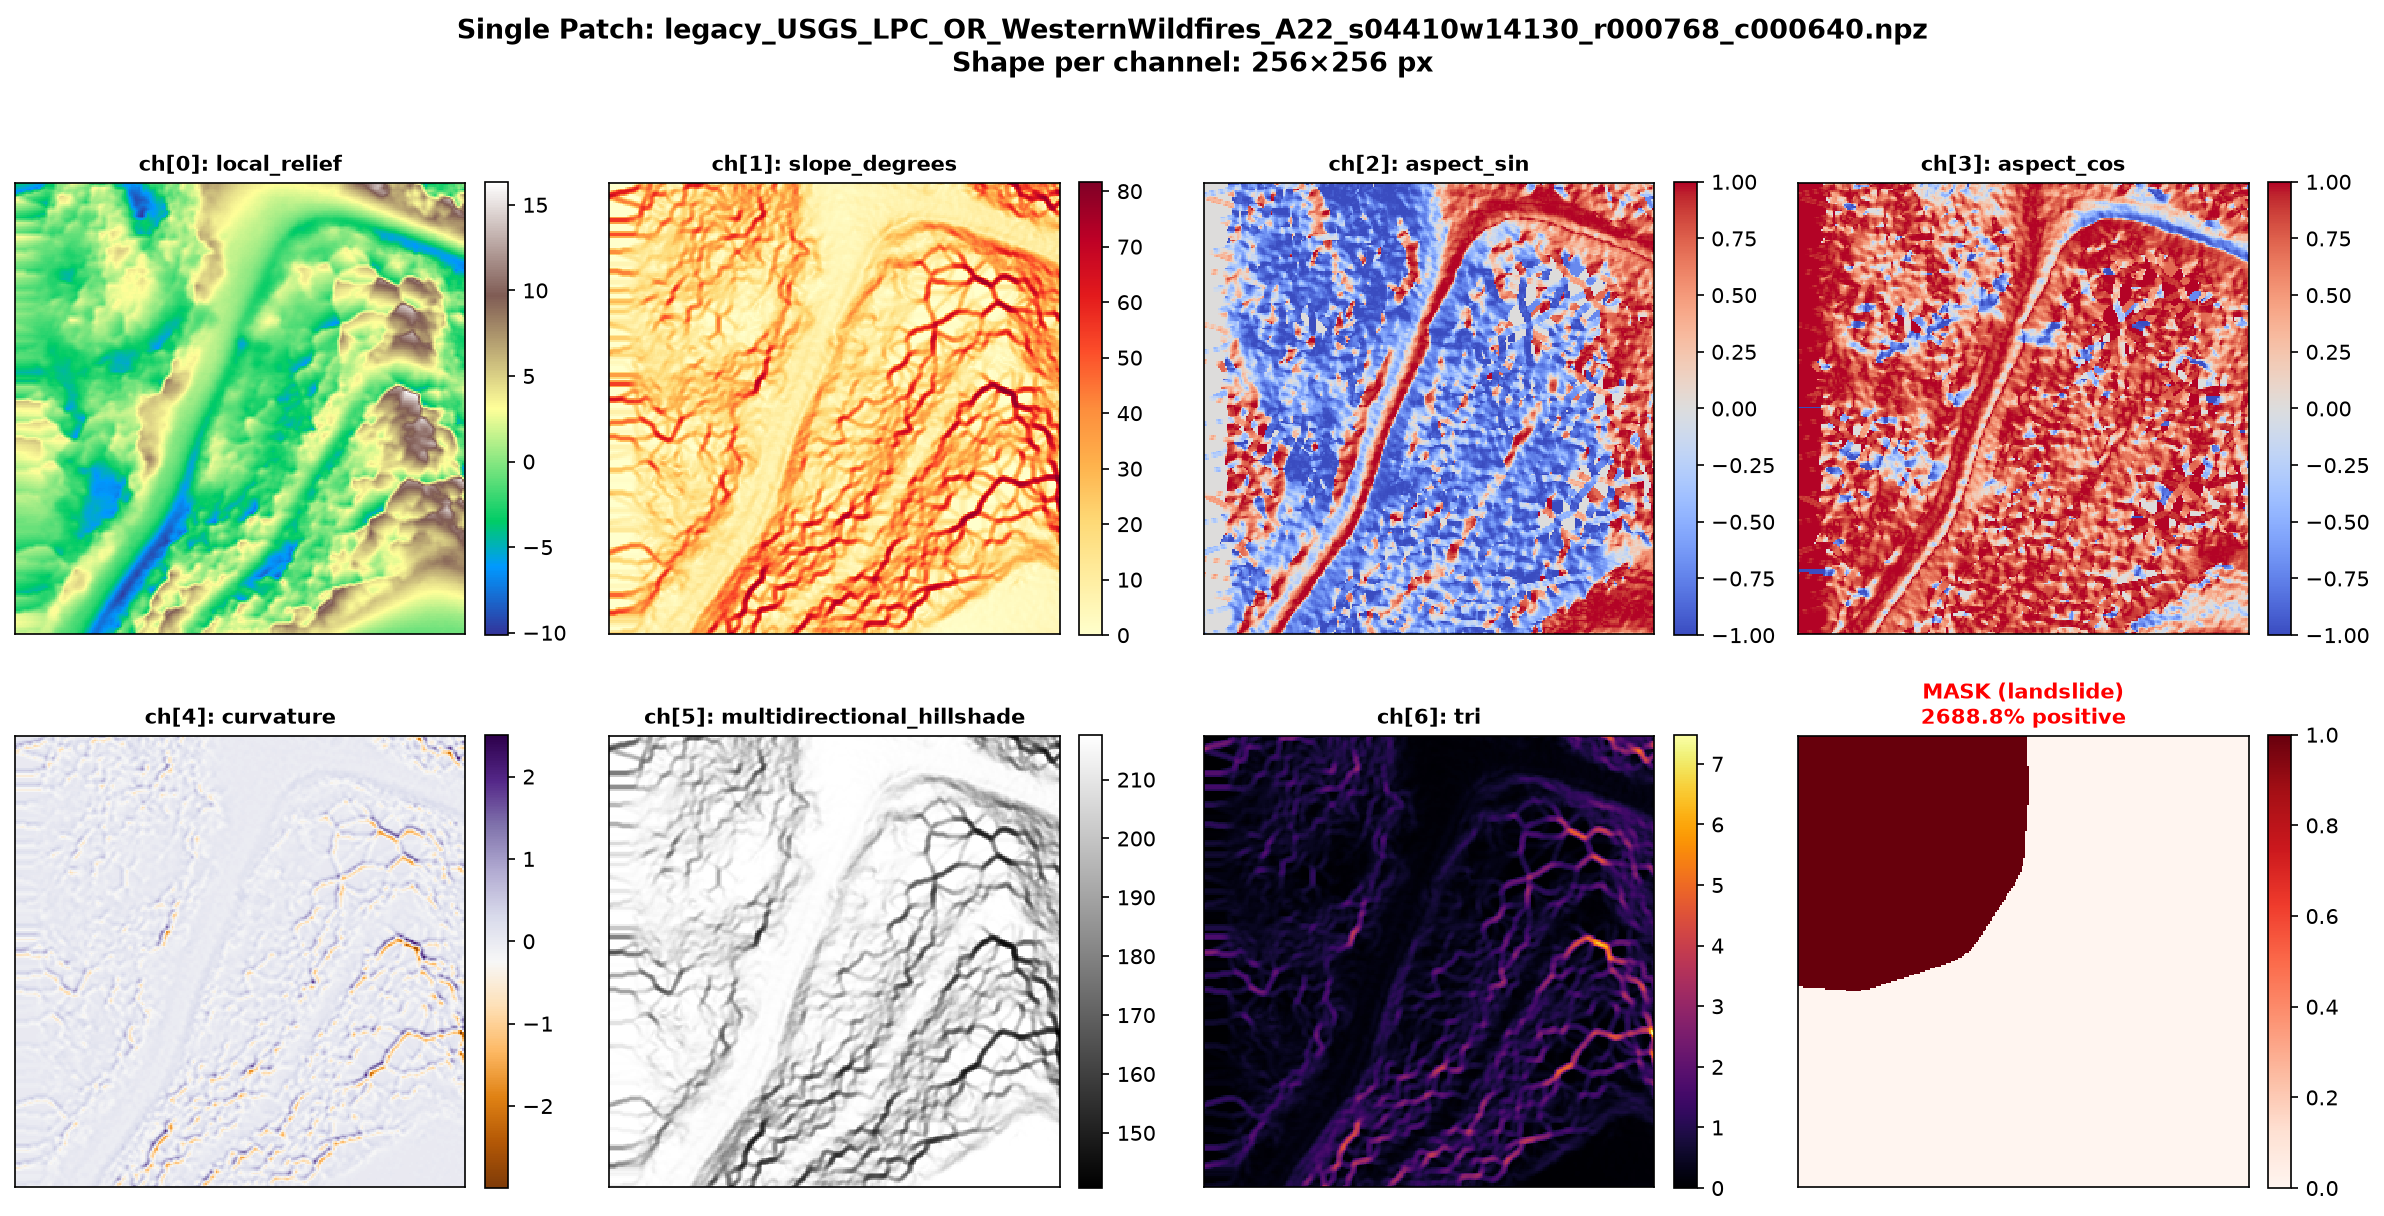
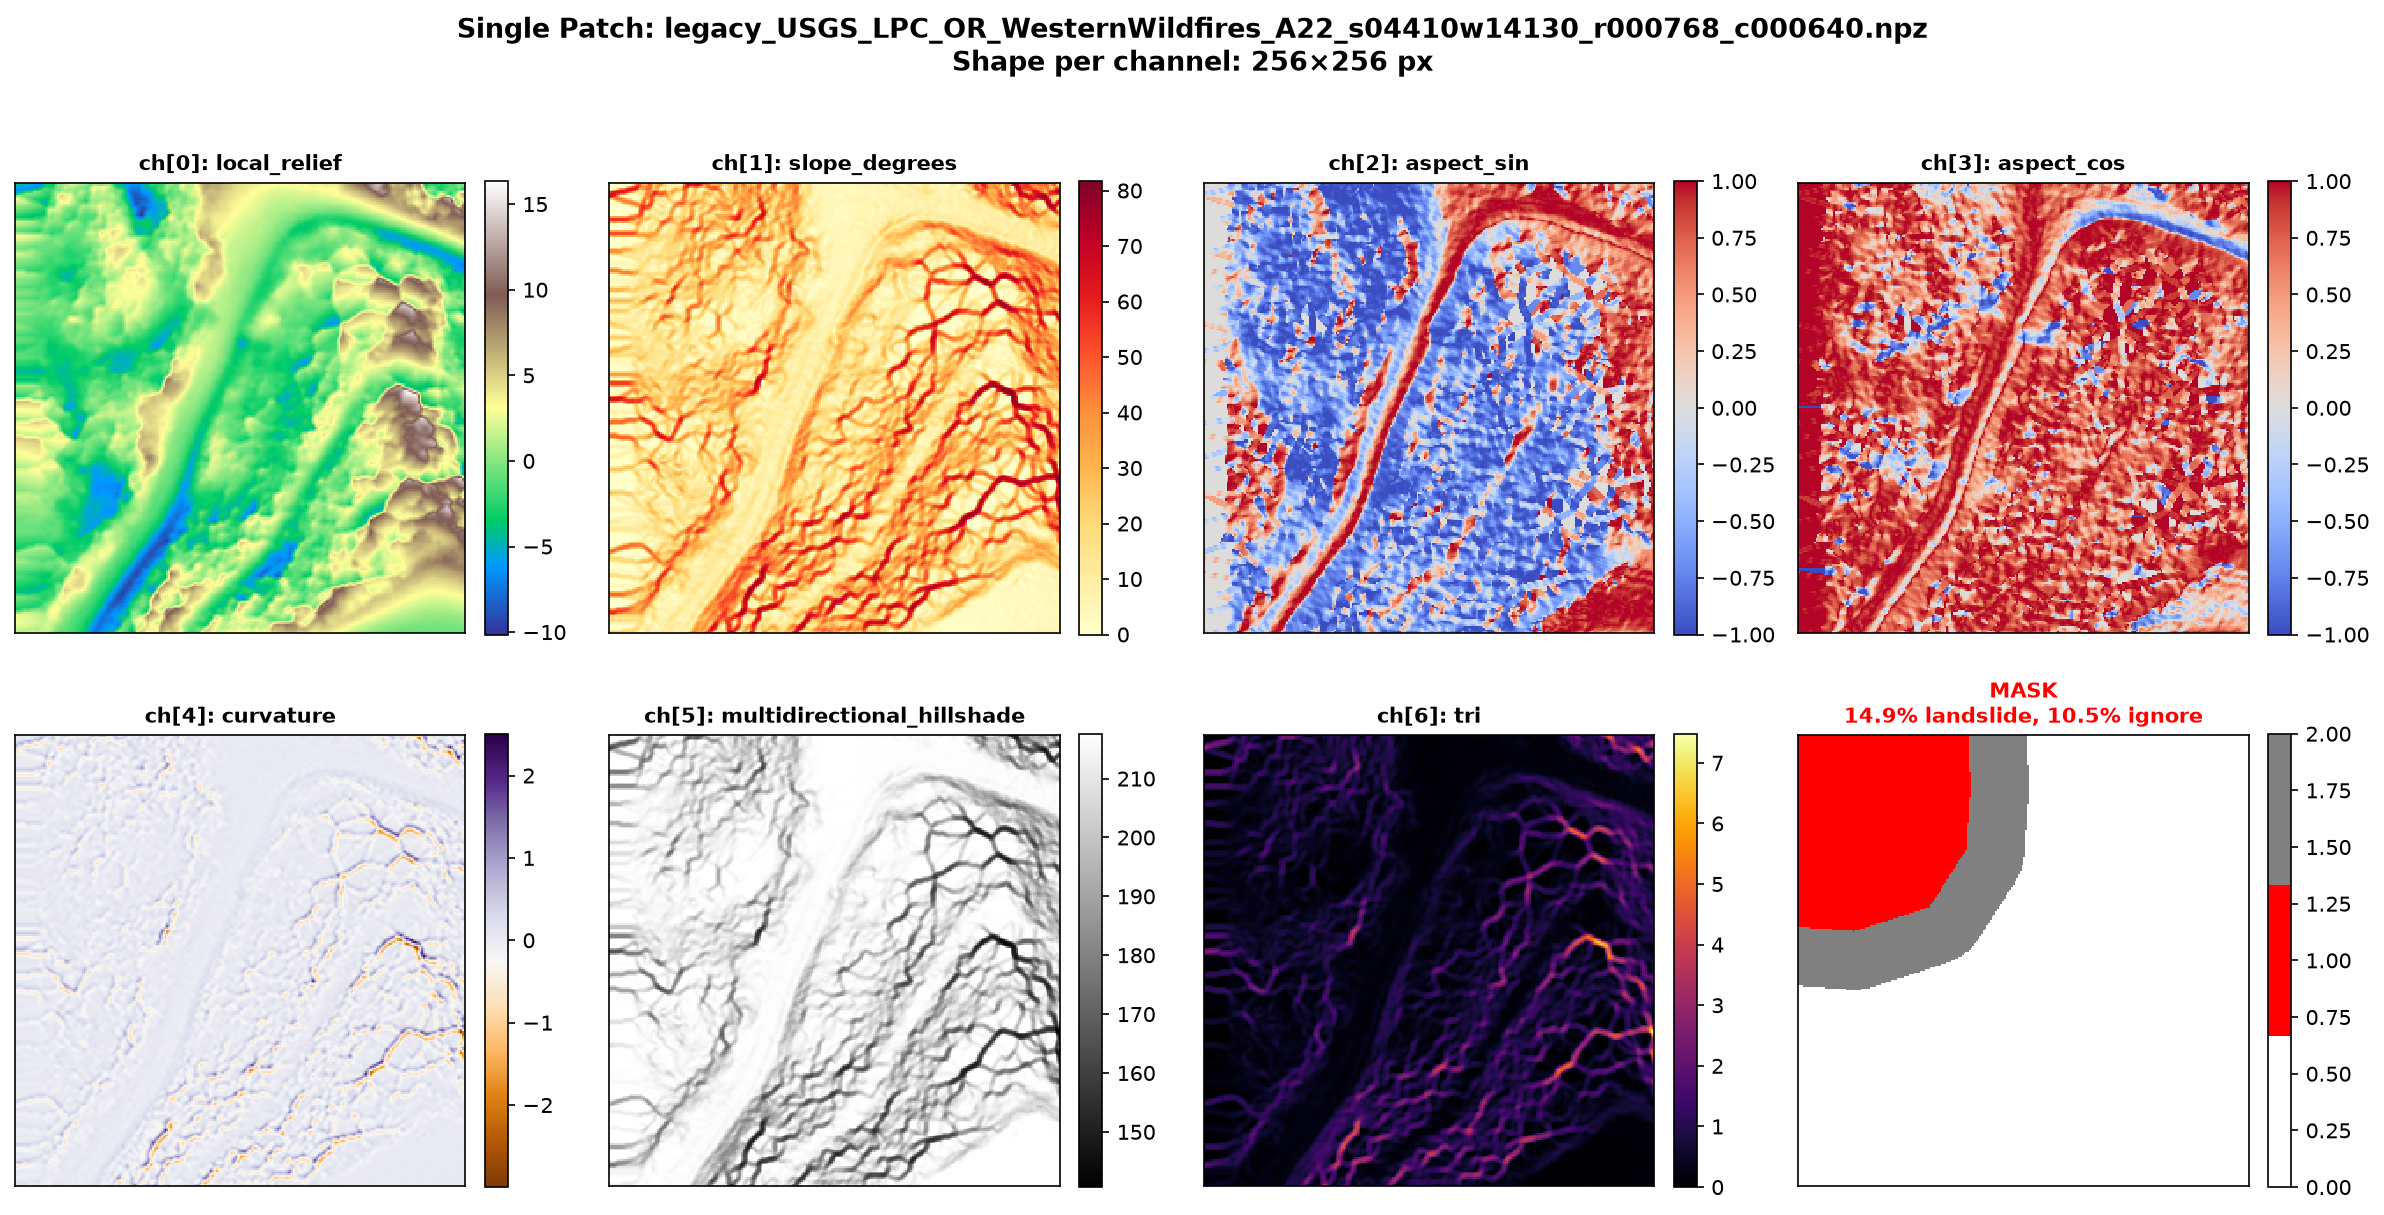
patch fix

diff --git a/oregon/visualize_patch_tillamook.py b/oregon/visualize_patch_tillamook.py
@@ -30,10 +30,13 @@ for row in rows:
         continue
     with np.load(p) as data:
         mask = data["mask"]
-    landslide_frac = mask.sum() / mask.size
+    landslide_frac = float(np.mean(mask == 1))
     if landslide_frac > 0.01:  # at least 1% landslide coverage
         positive_patch_path = p
-        print(f"Found positive patch: {p.name} ({landslide_frac*100:.1f}% landslide)")
+        print(
+            f"Found positive patch: {p.name} "
+            f"({landslide_frac:.1%} landslide)"
+        )
         break
 
 # Fallback to first available patch
@@ -54,10 +57,22 @@ with np.load(positive_patch_path) as data:
     features = data["features"]  # (C, H, W)
     mask = data["mask"]           # (H, W)
 
+positive_pixels = int(np.sum(mask == 1))
+ignore_pixels = int(np.sum(mask == 255))
+positive_fraction = float(np.mean(mask == 1))
+ignore_fraction = float(np.mean(mask == 255))
+
 print(f"\nPatch: {positive_patch_path.name}")
 print(f"  features shape: {features.shape}  (channels, height, width)")
 print(f"  mask shape:     {mask.shape}")
-print(f"  landslide pixels: {int(mask.sum())} / {mask.size} ({mask.sum()/mask.size*100:.2f}%)")
+print(
+    f"  landslide pixels: {positive_pixels} / {mask.size} "
+    f"({positive_fraction:.2%})"
+)
+print(
+    f"  ignore pixels:    {ignore_pixels} / {mask.size} "
+    f"({ignore_fraction:.2%})"
+)
 print()
 
 for i, name in enumerate(channels):
@@ -98,9 +113,35 @@ for i, name in enumerate(channels):
 
 # Mask
 ax = axes[n_channels]
-im = ax.imshow(mask, cmap="Reds", interpolation="nearest", vmin=0, vmax=1)
-landslide_pct = mask.sum() / mask.size * 100
-ax.set_title(f"MASK (landslide)\n{landslide_pct:.1f}% positive", fontsize=10, fontweight="bold", color="red")
+
+display_mask = np.zeros(mask.shape, dtype=np.uint8)
+display_mask[mask == 1] = 1
+display_mask[mask == 255] = 2
+
+im = ax.imshow(
+    display_mask,
+    cmap=plt.matplotlib.colors.ListedColormap([
+        "white",
+        "red",
+        "gray",
+    ]),
+    interpolation="nearest",
+    vmin=0,
+    vmax=2,
+)
+
+positive_fraction = float(np.mean(mask == 1))
+ignore_fraction = float(np.mean(mask == 255))
+
+ax.set_title(
+    f"MASK\n"
+    f"{positive_fraction:.1%} landslide, "
+    f"{ignore_fraction:.1%} ignore",
+    fontsize=10,
+    fontweight="bold",
+    color="red",
+)
+
 ax.set_xticks([])
 ax.set_yticks([])
 plt.colorbar(im, ax=ax, fraction=0.046, pad=0.04)
